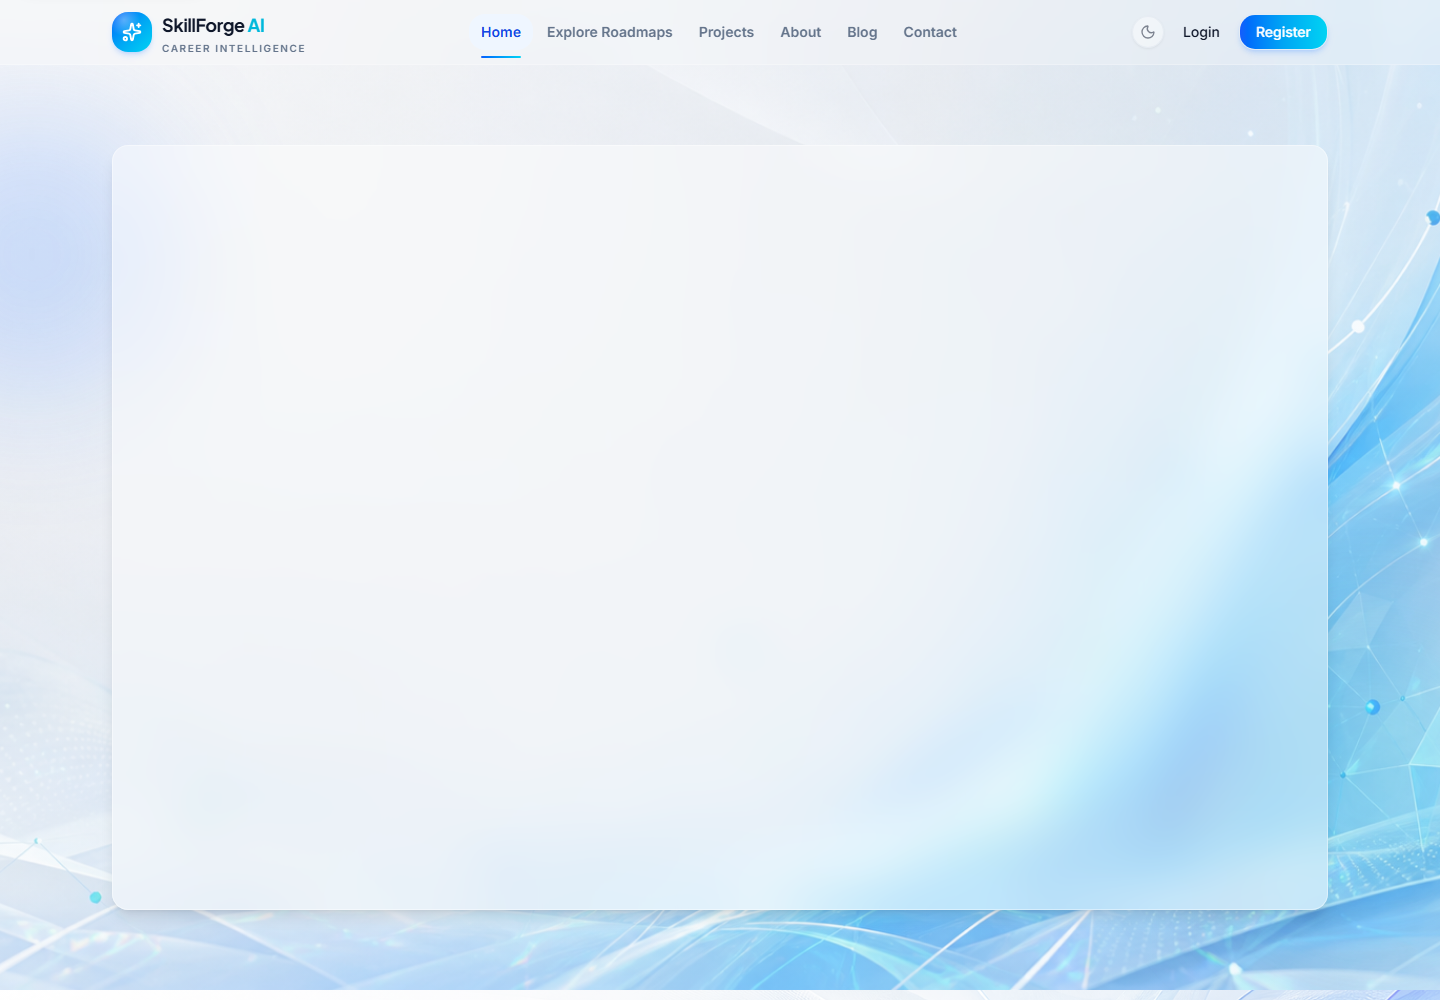
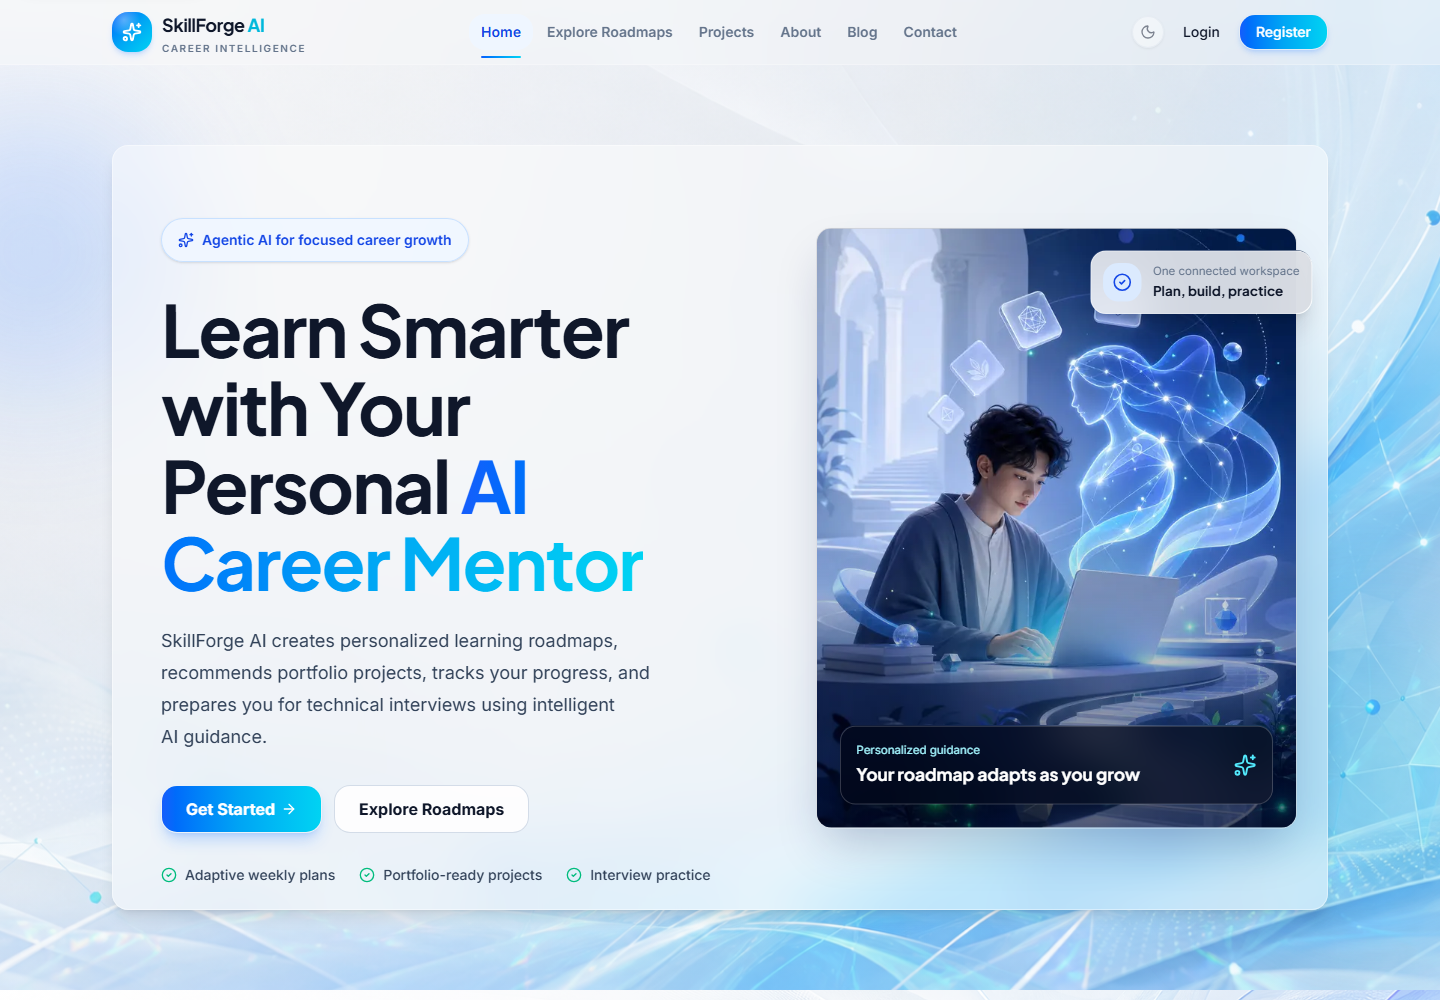
fix: keep animated hero visible before hydration

diff --git a/src/features/landing/hero-section.tsx b/src/features/landing/hero-section.tsx
@@ -12,7 +12,8 @@ const benefits = ["Adaptive weekly plans", "Portfolio-ready projects", "Intervie
 
 export function HeroSection() {
   const reduceMotion = useReducedMotion();
-  const hidden = reduceMotion ? {} : { opacity: 0, y: 24 };
+  // Keep server-rendered content visible; motion should enhance the page, not gate it.
+  const hidden = reduceMotion ? {} : { y: 24 };
 
   return (
     <section className="hero-surface relative isolate -mt-16 overflow-hidden pt-16" id="home">
@@ -40,7 +41,7 @@ export function HeroSection() {
             </motion.div>
           </motion.div>
 
-          <motion.div animate={{ opacity: 1, scale: 1, x: 0 }} className="relative mx-auto w-full max-w-xl lg:max-w-none" initial={reduceMotion ? false : { opacity: 0, scale: 0.92, x: 44 }} transition={{ duration: reduceMotion ? 0 : 0.85, delay: reduceMotion ? 0 : 0.2 }}>
+          <motion.div animate={{ scale: 1, x: 0 }} className="relative mx-auto w-full max-w-xl lg:max-w-none" initial={reduceMotion ? false : { scale: 0.96, x: 28 }} transition={{ duration: reduceMotion ? 0 : 0.85, delay: reduceMotion ? 0 : 0.2 }}>
             <motion.div animate={reduceMotion ? undefined : { y: [0, -10, 0] }} className="relative aspect-[4/5] overflow-hidden rounded-2xl border border-white/45 bg-slate-950/20 shadow-2xl shadow-blue-950/25 sm:aspect-[5/4] lg:aspect-[4/5] dark:border-white/10" transition={{ duration: 7, ease: "easeInOut", repeat: Infinity }}>
               <Image alt="Ethereal AI learning companion guiding a personalized career journey" className="object-cover object-center" fill priority sizes="(min-width: 1280px) 38vw, (min-width: 1024px) 44vw, (min-width: 640px) 36rem, 100vw" src="/images/skillforge/auth-ethereal-learning.png" />
               <div className="absolute inset-0 bg-gradient-to-t from-slate-950/58 via-slate-950/0 to-cyan-200/0" />